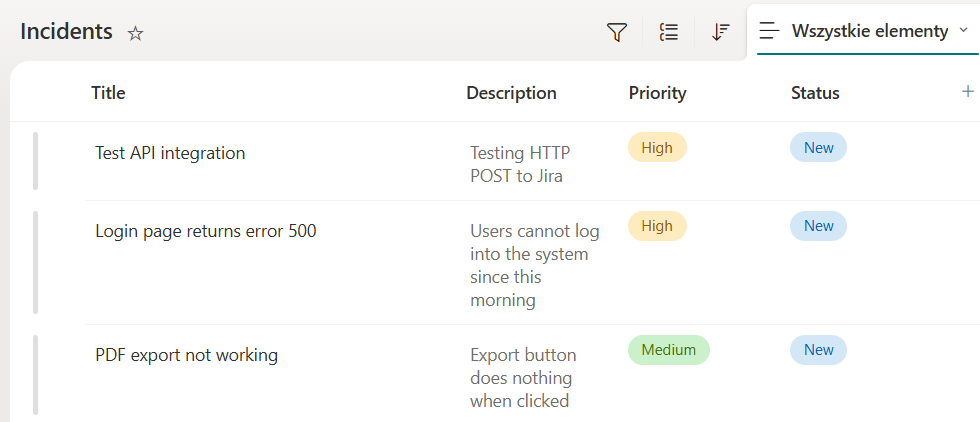
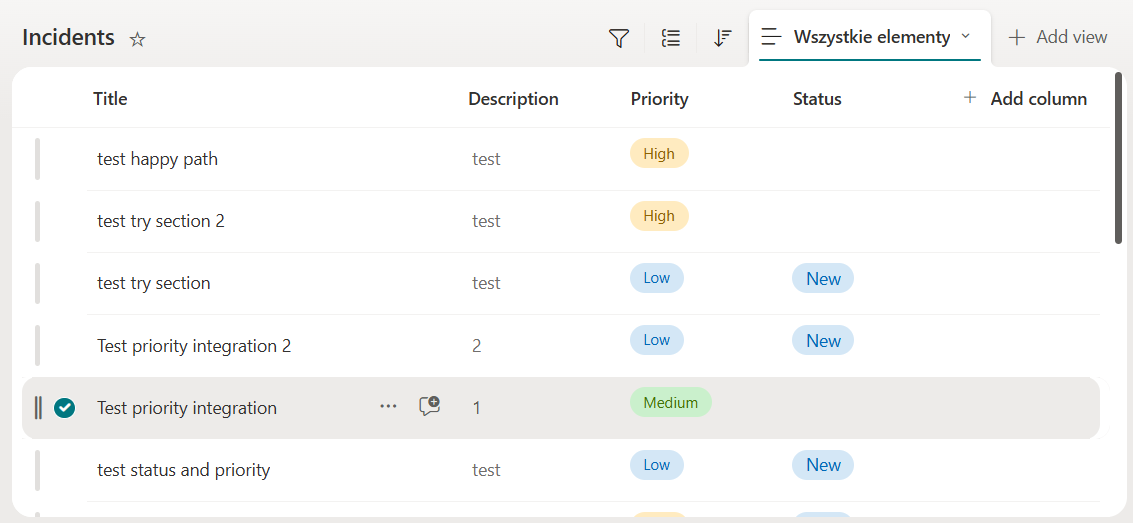
Aktualizacja dokumentacji o iteracje v2-v4 (v2 Compose, v3 priorytet i status Registered in Jira, v4 Try/Catch; ADR-005..008 + pole Status; mapowanie statusow i priorytetu; jeden diagram BPMN; odswiezone screenshoty)

diff --git a/README.md b/README.md
@@ -1,6 +1,6 @@
 # Automated Incident Management Flow
 
-Automatyzacja zgłaszania incydentów: od rejestracji na liście SharePoint po utworzenie zgłoszenia w Jira Cloud przez bezpośrednie wywołanie REST API.
+Automatyzacja zgłaszania incydentów: od rejestracji na liście SharePoint, przez wzbogacenie danych z REST API, po utworzenie zgłoszenia w Jira Cloud z obsługą błędów.
 
 Stack: Power Automate (Cloud Flow), SharePoint, Jira Cloud REST API v2.
 
@@ -13,19 +13,24 @@ Stack: Power Automate (Cloud Flow), SharePoint, Jira Cloud REST API v2.
 | Silnik automatyzacji | Power Automate (Cloud Flow) |
 | Źródło danych i wyzwalacz | Lista SharePoint (`Incidents`) |
 | System docelowy | Jira Cloud, REST API v2 (HTTP POST, Basic Auth + token API) |
-| Integracja zewnętrzna | REST API, HTTP GET + Parse JSON (`jsonplaceholder`) |
+| Integracja zewnętrzna | REST API, HTTP GET + Parse JSON + Compose (`jsonplaceholder`) |
 | Uwierzytelnianie | Basic Auth z tokenem API (nie hasłem konta) |
+| Obsługa błędów | Wzorzec Try/Catch (dwa bloki Scope + Configure run after), powiadomienie e-mail |
 
-## Architektura v1
+## Architektura
+
+Zrealizowane iteracje: v1 (rdzeń integracji), v2 (wzbogacony opis), v3 (priorytet i zwrotna aktualizacja statusu), v4 (obsługa błędów).
 
 ![Przepływ w Power Automate, pomyślne wykonanie](screenshots/flow-success.png)
 
 1. Wyzwalacz: utworzenie elementu na liście SharePoint `Incidents`.
 2. HTTP GET do zewnętrznego REST API (`https://jsonplaceholder.typicode.com/users/1`).
 3. Przeanalizuj dane JSON: schemat wygenerowany z pełnej odpowiedzi endpointu.
-4. HTTP POST do `https://<instancja>.atlassian.net/rest/api/2/issue` (Basic Auth: e-mail + token API, body JSON z mapowaniem pól Title i Description).
+4. Compose: złożenie opisu zgłoszenia z pola Description rekordu i danych z API (`name`, `email`), z formatowaniem tekstowym.
+5. Scope "Try": HTTP POST do `https://<instancja>.atlassian.net/rest/api/2/issue` (Basic Auth: e-mail + token API; body JSON z mapowaniem Summary, Description z Compose, Priority), następnie Update item w SharePoint ustawiający status na `Registered in Jira` (Id z wyzwalacza).
+6. Scope "Catch" (`Configure run after` = has failed / is skipped / has timed out): Wyślij e-mail (V2) z powiadomieniem o błędzie; tokeny w treści pochodzą z wyzwalacza.
 
-Efekt: utworzenie wpisu na liście SharePoint tworzy zgłoszenie w Jira z polami Summary i Description zmapowanymi z pól listy.
+Efekt: utworzenie wpisu na liście SharePoint tworzy zgłoszenie w Jira (Summary, wzbogacony Description, Priority) i oznacza rekord jako `Registered in Jira`. Nieudane wywołanie pomija aktualizację statusu i wysyła powiadomienie e-mail.
 
 Lista źródłowa i utworzone zgłoszenie:
 
@@ -35,9 +40,9 @@ Lista źródłowa i utworzone zgłoszenie:
 
 ## Proces (BPMN)
 
-![Proces zgłaszania incydentu w notacji BPMN 2.0, wersja v1](screenshots/bpmn-process-v1.png)
+![Model procesu w notacji BPMN 2.0](screenshots/bpmn-process.png)
 
-Diagram odwzorowuje wersję v1: rejestracja incydentu, pobranie i parsowanie metadanych z REST API, utworzenie zgłoszenia w Jira. Obsługa błędów (Try/Catch) oraz zwrotna aktualizacja statusu rekordu wejdą w kolejnej iteracji.
+Model procesu (BPMN 2.0) - stan zaimplementowany: rejestracja incydentu, pobranie i parsowanie metadanych z API, utworzenie zgłoszenia w Jira z obsługą błędów (Try/Catch) i powiadomieniem e-mail przy niepowodzeniu.
 
 ## Kluczowe elementy techniczne
 
@@ -49,10 +54,13 @@ Body zgłoszenia Jira (HTTP POST):
     "project":   { "key": "SCRUM" },
     "issuetype": { "name": "Zadanie" },
     "summary":     "<Title z listy SharePoint>",
-    "description": "<Description z listy SharePoint>"
+    "description": "<wynik akcji Compose: Description + name + email z API>",
+    "priority":  { "name": "<Priority z listy SharePoint: Low / Medium / High>" }
   }
 }
 ```
+
+Pole `description` jest wynikiem akcji Compose (tokeny dynamiczne, formatowanie), nie wyrażenia `concat`. Nazwy priorytetów są wspólne dla obu systemów, więc wartość przechodzi bez tłumaczenia.
 
 Uwierzytelnianie: Basic Auth z tokenem API zamiast hasła konta. Mechanika i uzasadnienie w [adr.md](docs/adr.md).
 
@@ -60,14 +68,13 @@ Uwierzytelnianie: Basic Auth z tokenem API zamiast hasła konta. Mechanika i uza
 
 1. Power Apps Developer Plan: środowisko z Power Automate (wymaga konta służbowego Entra ID).
 2. Jira Cloud: projekt typu Software, klucz projektu w demo to `SCRUM`.
-3. Lista SharePoint `Incidents` z polami Title, Description oraz opcjonalnie Priority i Status.
-4. Przepływ budowany ręcznie w Power Automate zgodnie z opisem architektury powyżej. Po zbudowaniu: konfiguracja połączenia SharePoint i wygenerowanie własnego tokenu API Jiry.
+3. Lista SharePoint `Incidents` z polami Title, Description, Priority (`Low` / `Medium` / `High`) oraz Status z opcją `Registered in Jira`.
+4. Przepływ budowany ręcznie w Power Automate zgodnie z opisem architektury powyżej. Po zbudowaniu: konfiguracja połączenia SharePoint, adresu e-mail dla powiadomień o błędach oraz wygenerowanie własnego tokenu API Jiry.
 
 ## Możliwe rozszerzenia
 
-- Wzbogacenie opisu zgłoszenia o pola z API (`name`, `email`, `company`).
-- Zwrotna zmiana statusu elementu SharePoint na `In Progress` po utworzeniu zgłoszenia.
-- Obsługa błędów: blok Scope (Try/Catch) z `Configure run after` i powiadomieniem e-mail z logiem.
+- Synchronizacja zwrotna Jira do SharePoint (np. `In Progress`, `Done`) po zmianie statusu zgłoszenia.
+- Wartość domyślna `New` i ukrycie pola Status w formularzu tworzenia, aby zgłaszający nie ustawiał statusu ręcznie (patrz [ADR-007](docs/adr.md)).
 - Wariant wywołania przez konektor oparty o opis OpenAPI oraz migracja na Jira API v3 (ADF).
 
 ## Dokumentacja

diff --git a/docs/adr.md b/docs/adr.md
@@ -1,8 +1,10 @@
 # Decyzje architektoniczne (ADR)
 
-ADR: decyzje projektowye wraz z kontekstem, wyborem i konsekwencjami. Projekt jest wersją demo, część decyzji wynika z ograniczeń środowisk, co zostało poniżej zaznaczone.
+ADR: decyzje projektowe wraz z kontekstem, wyborem i konsekwencjami. Projekt jest wersją demo, część decyzji wynika z ograniczeń środowisk, co zostało poniżej zaznaczone.
 
 ## ADR-001: HTTP POST do REST API zamiast gotowego konektora Jira
+
+Status. Zaakceptowane
 
 Kontekst. Standardowy konektor "Jira Cloud, Utwórz nowy problem (v3)" w Power Automate zwracał błąd przy renderowaniu pól formularza: `Field 'reporter' of type 'user' is not supported`. Konektor nie obsługuje pól typu `user`, a obecność pola Reporter w konfiguracji projektu blokowała renderowanie wszystkich pól akcji, w tym Summary i Description. To znany, udokumentowany problem konektora.
 
@@ -21,6 +23,8 @@ Konsekwencje.
 
 ## ADR-002: Uwierzytelnianie tokenem API i rotacja tokenu
 
+Status. Zaakceptowane
+
 Kontekst. Jira Cloud przy Basic Auth wymaga tokenu API. Logowanie do Jiry odbywa się przez Google (SSO), które nie udostępnia hasła aplikacjom.
 
 Decyzja. Basic Auth, gdzie nazwa użytkownika to e-mail konta Atlassian, a hasło to token API. Token traktowany jako sekret.
@@ -33,6 +37,8 @@ Konsekwencje.
 
 ## ADR-003: Schemat JSON generowany z pełnej odpowiedzi API
 
+Status. Zaakceptowane
+
 Kontekst. Akcja "Przeanalizuj dane JSON" wymaga schematu opisującego strukturę odpowiedzi. 
 
 Schemat wygenerowano z pełnej, rzeczywistej odpowiedzi endpointu (`/users/1`).
@@ -43,6 +49,8 @@ Konsekwencje.
 
 ## ADR-004: API v2 (tekst) zamiast v3 (ADF) w pierwszej iteracji
 
+Status. Zaakceptowane
+
 Kontekst. Jira REST API v3 wymaga pola `description` w formacie ADF (Atlassian Document Format, struktura JSON). API v2 przyjmuje opis jako zwykły tekst.
 
 Decyzja. Pierwsza iteracja korzysta z API v2 (`/rest/api/2/issue`).
@@ -51,3 +59,58 @@ Konsekwencje.
 
 - Prostsze, czytelne body i szybsza droga do działającego rozwiązania.
 - Migracja na v3/ADF możliwa jako osobna iteracja.
+
+## ADR-005: Dane zgłaszającego w opisie zgłoszenia, nie w polach strukturalnych Jiry
+
+Status. Zaakceptowane
+
+Kontekst. Dane pobierane z jsonplaceholder to dane testowe. Pola strukturalne Jiry typu `user` (np. Reporter) wymagają istniejącego konta i jego account ID, którego dla danych testowych nie ma.
+
+Decyzja. Dane zgłaszającego (`name`, `email`) trafiają do pola `description`, złożone akcją Compose.
+
+Konsekwencje.
+
+- Brak zależności od kont użytkowników w instancji Jiry.
+- Komplet informacji o zgłaszającym w jednym miejscu.
+- W środowisku produkcyjnym rozważono by mapowanie na pole Reporter przez lookup account ID Atlassian.
+
+## ADR-006: Status `Registered in Jira` zamiast `In Progress` po utworzeniu zgłoszenia
+
+Status. Zaakceptowane
+
+Kontekst. Pierwotne wymaganie (FR-06) zakładało ustawienie statusu `In Progress`. W momencie utworzenia zgłoszenia nikt jeszcze nad nim nie pracuje, więc `In Progress` byłby nieprawdziwy.
+
+Decyzja. Przepływ ustawia status kontrolny `Registered in Jira`. Do kolumny Status dodano tę opcję.
+
+Konsekwencje.
+
+- Status w SharePoint odzwierciedla stan automatyzacji, nie stan pracy zespołu.
+- `In Progress` pozostaje zmianą ręczną lub przyszłą synchronizacją zwrotną Jira do SharePoint.
+- Rozdzielenie obu znaczeń jest świadome i opisane w mapowaniu statusów (`requirements.md`).
+
+## ADR-007: Kontrola pola Status w formularzu tworzenia
+
+Status. Propozycja, nie wdrożone
+
+Kontekst. Zgłaszający może obecnie ręcznie ustawić dowolny status przy tworzeniu rekordu, co pozwala na niespójny stan początkowy.
+
+Decyzja. Wartość domyślna `New` i ukrycie pola Status w formularzu tworzenia; status zmieniany wyłącznie przez przepływ lub obsługę procesu.
+
+Konsekwencje.
+
+- Spójny stan początkowy każdego zgłoszenia.
+- Wymaga zmiany w formularzu SharePoint lub Power Apps, stąd wydzielone jako osobny krok.
+
+## ADR-008: Obsługa błędów wzorcem Try/Catch
+
+Status. Zaakceptowane
+
+Kontekst. Power Automate nie ma natywnego try/catch. Odporność na błędy realizuje się dwoma blokami Scope i mechanizmem `Configure run after`.
+
+Decyzja. Scope "Try" zawiera HTTP POST do Jiry oraz Update item w SharePoint. Scope "Catch" z `Configure run after` = has failed / is skipped / has timed out wysyła powiadomienie e-mail.
+
+Konsekwencje.
+
+- Nieudane utworzenie zgłoszenia pomija Update item, więc rekord nie dostaje fałszywego statusu.
+- W treści powiadomienia w Catch tokeny muszą pochodzić z wyzwalacza (`triggerBody`), nie z akcji w Try. Akcje w Try mogły zostać pominięte, a ich tokeny są wtedy puste.
+- Zweryfikowane celowym błędem (nieistniejący klucz projektu): Try failed, Update pominięty, Catch wykonany, e-mail wysłany.
